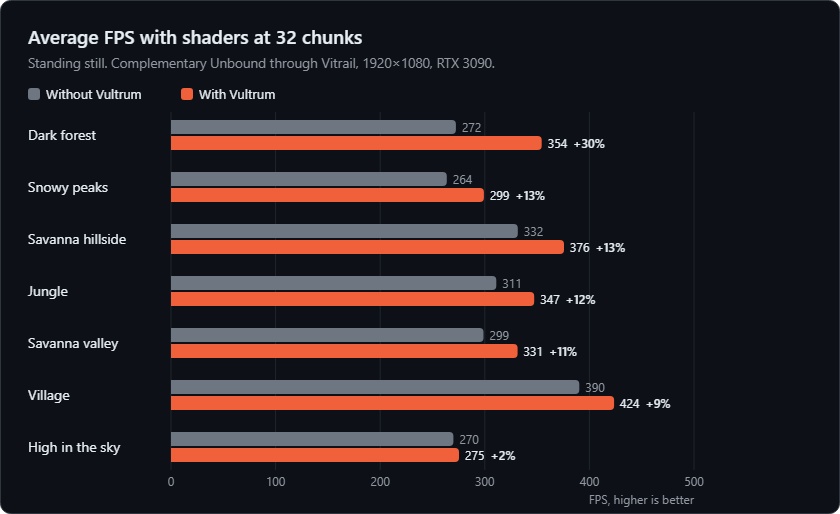
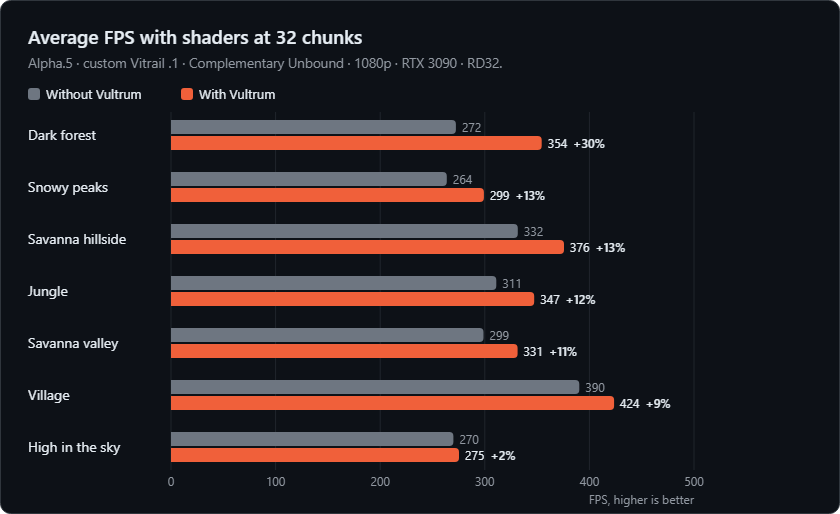
docs: refresh project pages and label benchmark versions

Changed region(s): [[0.031, 0.0934, 0.5881, 0.1556]]

diff --git a/tools/sync_modrinth_project.py b/tools/sync_modrinth_project.py
@@ -8,6 +8,7 @@ from pathlib import Path
 import re
 import urllib.error
 import urllib.request
+from urllib.parse import urlencode
 
 from publish_modrinth import API, NoRedirect, PublishError, USER_AGENT
 
@@ -69,6 +70,24 @@ def desired_fields():
     return config | {"body": project_body((ROOT / "README.md").read_text(encoding="utf-8"))}
 
 
+def desired_gallery():
+    return json.loads((ROOT / "docs/modrinth-gallery.json").read_text(encoding="utf-8"))
+
+
+def gallery_changes(current, desired):
+    changes = []
+    for item in desired:
+        if not item.keys() <= {"raw_url", "title", "description"} or not item.get("raw_url"):
+            raise PublishError("Gallery metadata must identify an existing image and its caption.")
+        matches = [image for image in current if item["raw_url"] == image.get("raw_url", image["url"])]
+        if len(matches) != 1:
+            raise PublishError("A managed gallery image is missing or duplicated; audit the gallery.")
+        fields = {k: v for k, v in item.items() if k != "raw_url" and matches[0].get(k) != v}
+        if fields:
+            changes.append({"url": item["raw_url"], **fields})
+    return changes
+
+
 def validate_project(project, project_id):
     if not re.fullmatch(r"[A-Za-z0-9]{8}", project_id):
         raise PublishError("Expected a stable eight-character project ID.")
@@ -90,23 +109,34 @@ def synchronize(project_id, token, *, apply=False, audit=False):
         return
     desired = desired_fields()
     patch = {k: v for k, v in desired.items() if before.get(k) != v}
+    captions = desired_gallery()
+    gallery = gallery_changes(before.get("gallery", []), captions)
     print("Changed project fields: " + (", ".join(sorted(patch)) or "none"))
+    print("Changed gallery captions: " + str(len(gallery)))
     if not apply:
         print("PROJECT_PATCH_JSON=" + json.dumps(patch, separators=(",", ":")))
+        print("GALLERY_PATCH_JSON=" + json.dumps(gallery, separators=(",", ":")))
         print("Dry run: no project fields changed.")
         return
     if patch:
         request(path, token, method="PATCH", data=patch)
+    for caption in gallery:
+        request(path + "/gallery?" + urlencode(caption), token, method="PATCH")
     after = request(path, token)
     validate_project(after, project_id)
     for key, value in desired.items():
         if after.get(key) != value:
             raise PublishError(f"Stored project {key} differs from the requested value.")
-    for key in ("status", "requested_status", "slug", "versions", "gallery", "icon_url"):
+    if gallery_changes(after.get("gallery", []), captions):
+        raise PublishError("Stored gallery captions differ from the requested values.")
+    identities = lambda images: {(i.get("raw_url", i["url"]), i.get("featured"), i.get("ordering")) for i in images}
+    if identities(before.get("gallery", [])) != identities(after.get("gallery", [])):
+        raise PublishError("Gallery images or their ordering changed; inspect the stored gallery.")
+    for key in ("status", "requested_status", "slug", "versions", "icon_url", "license", "categories", "additional_categories"):
         if after.get(key) != before.get(key):
             raise PublishError(f"Project {key} changed during synchronization; inspect the stored project.")
     print("PROJECT_AFTER_JSON=" + json.dumps({k: after.get(k) for k in SNAPSHOT_FIELDS}, separators=(",", ":")))
-    print("Project content verified; moderation, slug, versions, icon and gallery preserved.")
+    print("Project content and gallery captions verified; moderation, slug, versions, icon and gallery images preserved.")
 
 
 def main():

diff --git a/tools/test_sync_modrinth_project.py b/tools/test_sync_modrinth_project.py
@@ -8,6 +8,11 @@ from publish_modrinth import PublishError
 
 
 class ProjectPageTest(unittest.TestCase):
+    def setUp(self):
+        gallery = patch.object(sync, "desired_gallery", return_value=[])
+        gallery.start()
+        self.addCleanup(gallery.stop)
+
     def project(self):
         return {"id": "LV34xpJ5", "title": "Vultrum", "project_type": "mod",
                 "description": "old", "body": "old", "status": "processing", "requested_status": "approved",
@@ -63,6 +68,21 @@ class ProjectPageTest(unittest.TestCase):
         self.assertNotIn("## Building", body)
         self.assertIn(sync.RAW + "docs/images/fps.png", body)
         self.assertIn(sync.WEB + "/blob/main/LICENSE", body)
+
+    def test_gallery_updates_only_the_exact_existing_image_caption(self):
+        current = [{"url": "preview", "raw_url": "original", "title": "old", "featured": True, "ordering": 0}]
+        self.assertEqual(sync.gallery_changes(current, [{"raw_url": "original", "title": "new"}]),
+                         [{"url": "original", "title": "new"}])
+        self.assertEqual(sync.gallery_changes(current, [{"raw_url": "original", "title": "old"}]), [])
+
+    def test_missing_gallery_image_stops_before_writes(self):
+        with patch.object(sync, "request", return_value=self.project()) as request, \
+                patch.object(sync, "desired_fields", return_value={"body": "new"}), \
+                patch.object(sync, "desired_gallery", return_value=[{"raw_url": "missing", "title": "new"}]), \
+                contextlib.redirect_stdout(io.StringIO()):
+            with self.assertRaises(PublishError):
+                sync.synchronize("LV34xpJ5", "credential", apply=True)
+        self.assertEqual(request.call_count, 1)
 
 
 if __name__ == "__main__":

diff --git a/tools/readme_charts.py b/tools/readme_charts.py
@@ -179,10 +179,10 @@ def build_charts():
                for rd in (32, 16) for case, label in FLIGHTS.items()]
     return {
         "fps": dict(title="Average FPS with shaders at 32 chunks",
-                    subtitle="Standing still. Complementary Unbound through Vitrail, 1920×1080, RTX 3090.",
+                    subtitle="Alpha.5 · custom Vitrail .1 · Complementary Unbound · 1080p · RTX 3090 · RD32.",
                     rows=rows, unit="FPS, higher is better"),
         "flight": dict(title="1% low FPS while flying into new terrain",
-                       subtitle="30 blocks a second, 30 blocks above the ground. Same setup.",
+                       subtitle="Alpha.5 · custom Vitrail .1 · 1080p · RTX 3090 · 30 blocks/s, 30 blocks above ground.",
                        rows=flights, unit="1% low FPS, higher is better"),
     }
 

diff --git a/README.md b/README.md
@@ -22,7 +22,7 @@
 <p align="center">
   <img src="docs/images/hero.webp" alt="The same view without Vultrum on the left and with it on the right, with a divider sweeping across. Dark forest 272 to 354 FPS (+30%); Snowy peaks 264 to 299 FPS (+13%); Savanna hillside 332 to 376 FPS (+13%). Both sides look the same.">
   <br>
-  <sub>Left without Vultrum, right with it. The same picture, more frames.</sub>
+  <sub>Left without Vultrum, right with it. Measured with Alpha.5 and custom Vitrail .1; full setup below.</sub>
 </p>
 
 > [!NOTE]
@@ -62,7 +62,7 @@ How much you gain depends on how much of the view is hidden. In a dark forest mo
 
 While flying at 32 chunks, 1% low FPS was 17 to 24% higher with Vultrum. These lows and the longest frames fluctuate between runs.
 
-Vitrail in these runs was [Vultrum's build of Vitrail](https://github.com/DebZakari/vitrail-shaders/releases/tag/0.13.0-beta.vultrum.1), which has a few speedups that Vitrail's own release doesn't have yet. With Vitrail from Modrinth, FPS will be somewhat lower overall.
+Vitrail in these runs was [Vultrum's build of Vitrail](https://github.com/DebZakari/vitrail-shaders/releases/tag/0.13.0-beta.vultrum.1). The results apply to that exact build and dependency set.
 
 <details>
 <summary>All numbers</summary>
@@ -151,7 +151,7 @@ GPU Occlusion Culling falls back to ordinary terrain drawing when the device is 
 
 The **Compatibility** group on the Culling page also offers **Faster Punchy Hands**, off by default. It reduces Punchy's first-person shader-check overhead without skipping hand animations. It needs Punchy 2.8f-hotfix or 2.8g and a supported Vitrail version, with Iris absent. Other versions leave the hook disabled. Changing it takes effect after a restart.
 
-**EMF Shadow Frame Skip**, in the same group and off by default, lets Entity Model Features reuse a mob's last pose in Vitrail's shadow map instead of animating it a second time each frame, as EMF already does under Iris. In a test with 260 animated mobs in view it gave about 6% more FPS, and a view without mobs didn't change. A mob out of view whose shadow falls into view can hold its last pose. With Vultrum's build of Vitrail 0.13.0-beta.vultrum.6, mobs in view already reuse their pose in the shadow map, so the setting then helps only with mobs out of view. It needs Entity Model Features 3.3.12 or a later 3.3 version and a supported Vitrail version, with Iris absent, and follows EMF's own setting for skipping shadow frames. Changing it takes effect after a restart.
+**EMF Shadow Frame Skip**, in the same group and off by default, lets Entity Model Features reuse a mob's last pose in Vitrail's shadow map instead of animating it a second time each frame, as EMF already does under Iris. In a test with 260 animated mobs in view it gave about 6% more FPS, and a view without mobs didn't change. A mob out of view whose shadow falls into view can hold its last pose. With Vultrum's build of Vitrail 0.13.0-beta.vultrum.6 or newer, mobs in view already reuse their pose in the shadow map, so the setting then helps only with mobs out of view. It needs Entity Model Features 3.3.12 or a later 3.3 version and a supported Vitrail version, with Iris absent, and follows EMF's own setting for skipping shadow frames. Changing it takes effect after a restart.
 
 Resource-pack reloads now refresh player-head icons. Alpha.8 fixes the crash reproduced when subsequently switching shaders off and back on in the tested full mod setup.
 
@@ -171,7 +171,7 @@ Vultrum is client-side. It works in singleplayer and on servers, and the server 
 
 GPU occlusion culling automatically adapts to the GPU's compute limits, including devices without subgroup arithmetic or with 128-thread workgroups. Both compute paths have been checked on the RTX 3090; AMD and Intel hardware remain untested.
 
-Tested on Vulkan together with Vitrail and Complementary Unbound, all in one instance, with no errors from Vultrum:
+The mods below were checked together on Vulkan with Vitrail and Complementary Unbound, with no errors from Vultrum. Checked versions are listed under Install; newer mod releases can change compatibility.
 
 These compatibility checks use default settings. Skip Sunless Terrain additionally passed light-update, reload and shadow-image checks with ScalableLux 0.3.0-alpha.0.6+26.3, Vitrail 0.13.0-beta.vultrum.1 and Complementary Unbound r5.9.3. It remains off by default.
 
@@ -185,6 +185,7 @@ Wakes Reforged 1.4.1 wake trails passed shader toggle, resource reload and rejoi
 Doesn't work with:
 
 - **Nvidium** and **Reese's Sodium Options.** Both need Sodium 0.9.2, so the game won't start with them and Vultrum. Nvidium is also OpenGL only.
+- **Polytone 26.3-6.8.6-alpha with Sodium 0.9.3-beta.5.** This combination crashes when joining a world because Polytone's Sodium hook no longer matches. It is the latest Polytone build available for Fabric 26.3 as checked on 17 November 2026. Leave it out of this combination until a compatible build is available.
 - **Iris shaders.** Iris switches itself off on Vulkan, so its packs need OpenGL. It loads next to Vultrum without problems, it just won't draw a pack. Use Vitrail for shader packs on Vulkan.
 - **Distant Horizons with Iris** on Vulkan. Distant Horizons picks OpenGL when Iris is installed and stops the game with a dialog. With Vitrail instead of Iris it works.
 - Other mods that only render with OpenGL.
@@ -216,6 +217,8 @@ Open an issue with:
 `./gradlew build` with JDK 25. The jar ends up in `build/libs/`.
 
 To help test another GPU, use the [reproducible tester setup](bench/TESTING.md). It pins the shader build, pack and settings and saves results locally.
+
+The Modrinth project page is generated from this README by `tools/sync_modrinth_project.py`, with project metadata in `docs/modrinth-project.json`. The **Update Modrinth project page** workflow can audit the stored page, preview a change or apply it. It verifies the saved content and preserves project moderation status and published versions. Benchmark charts are drawn from the recorded series in `tools/readme_charts.py`.
 
 ## Licence
 
